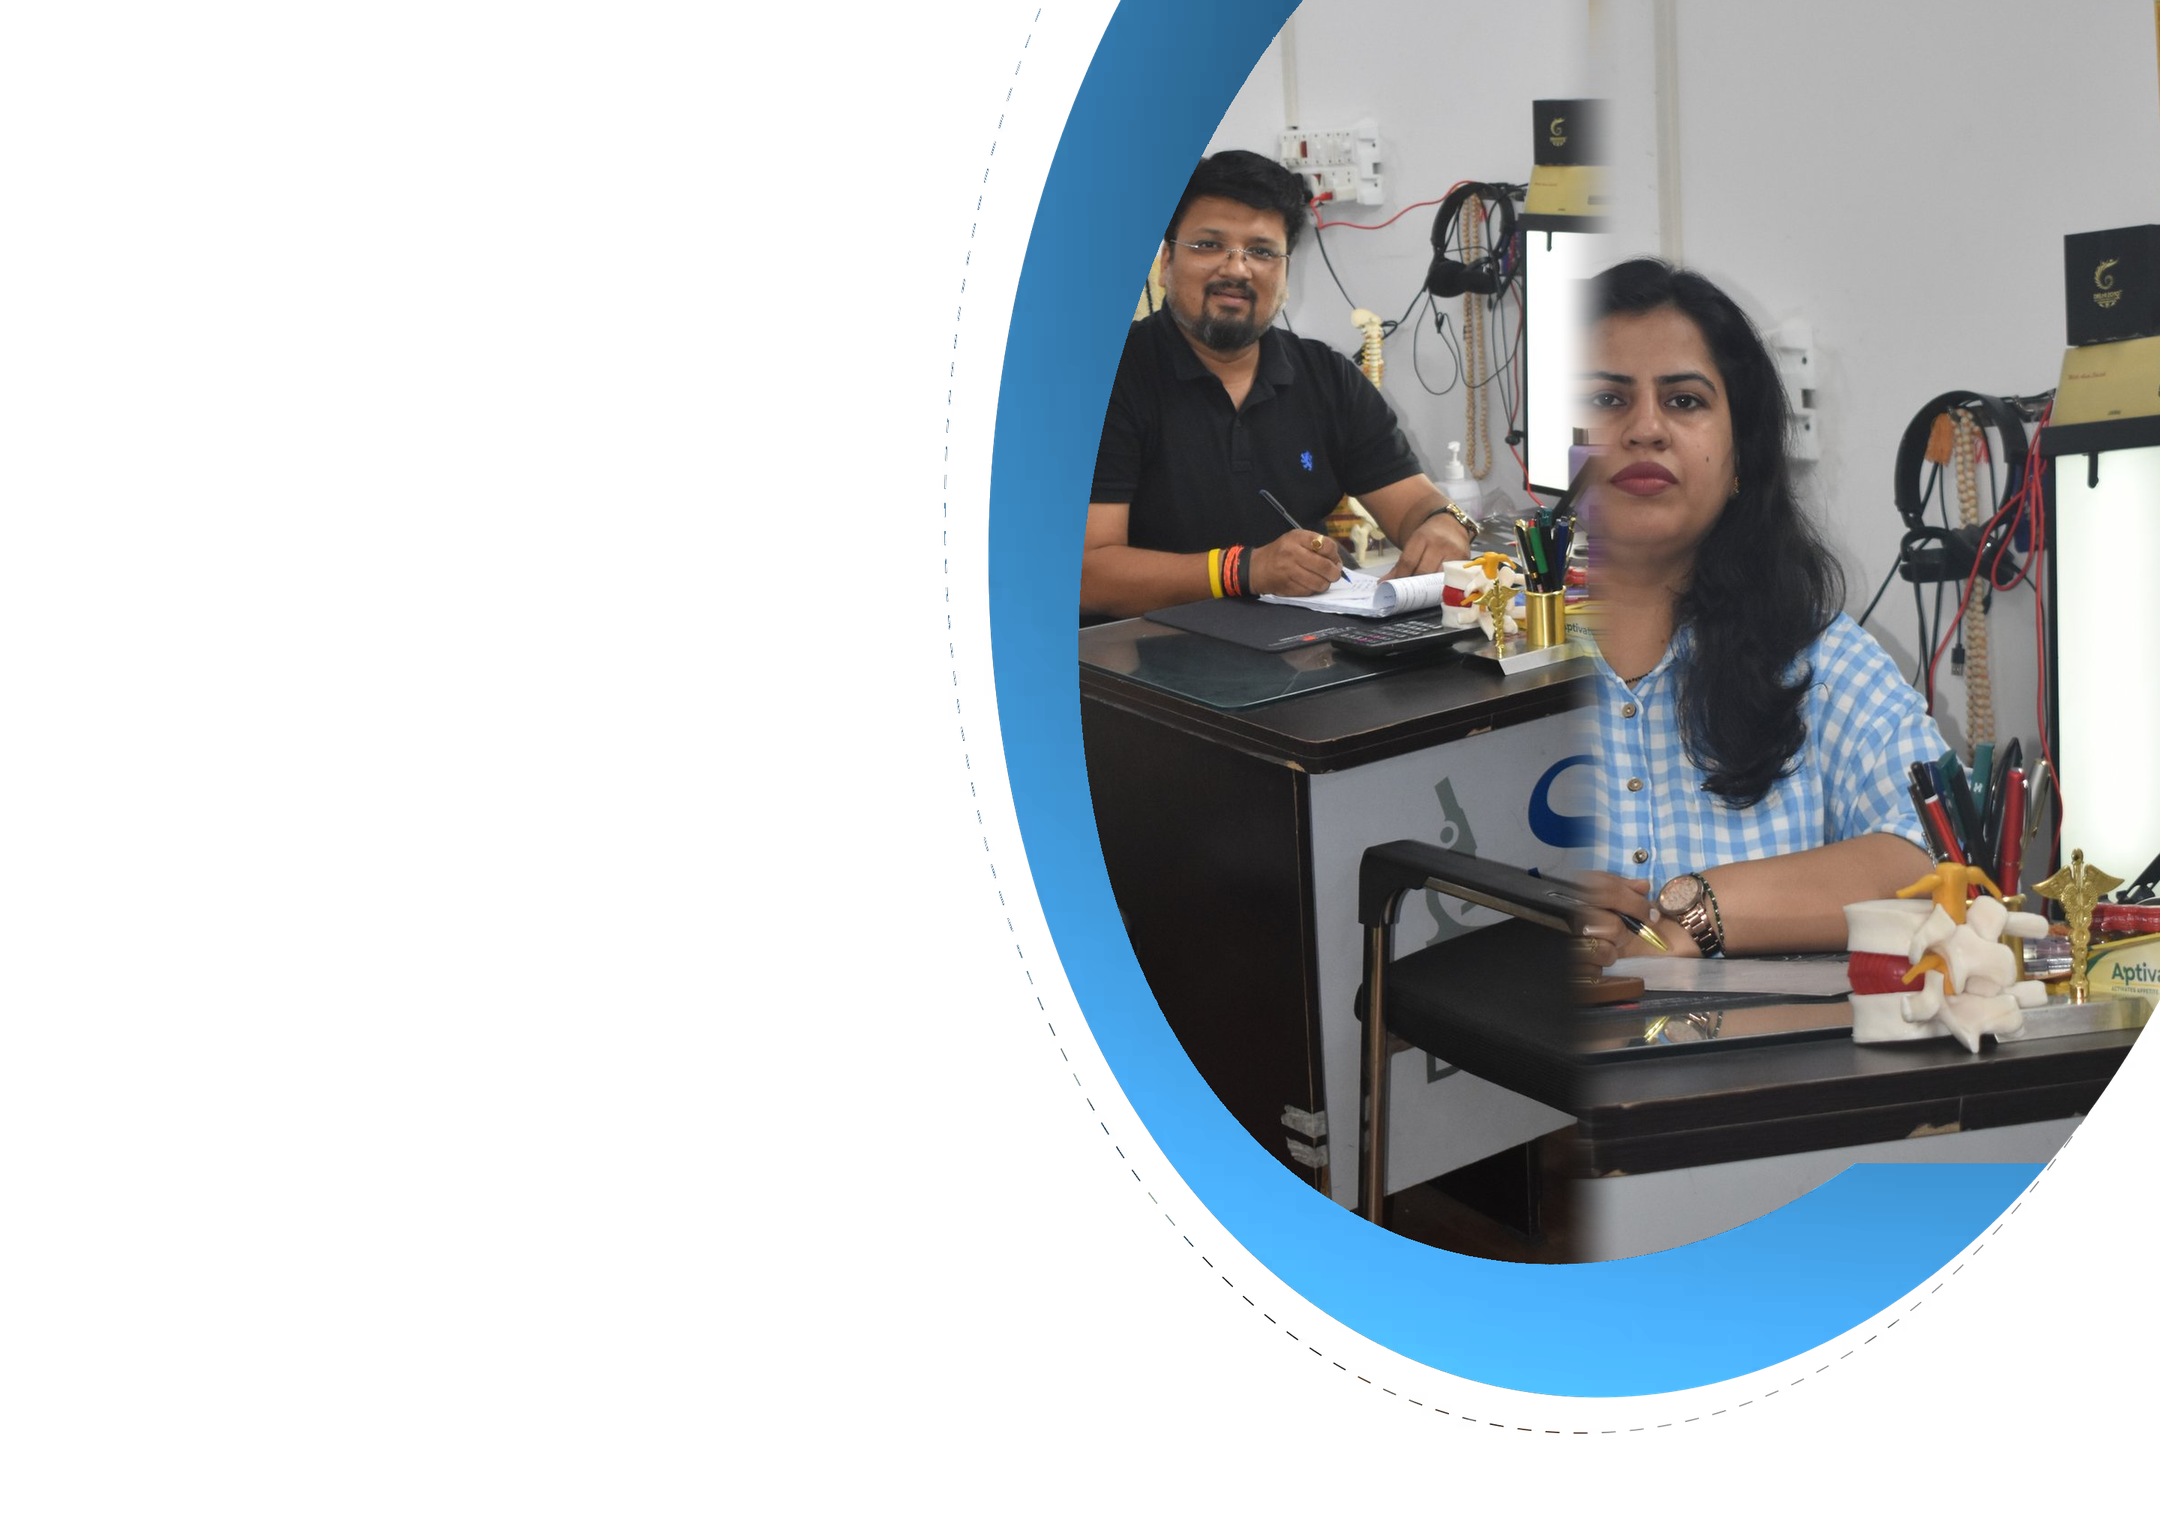
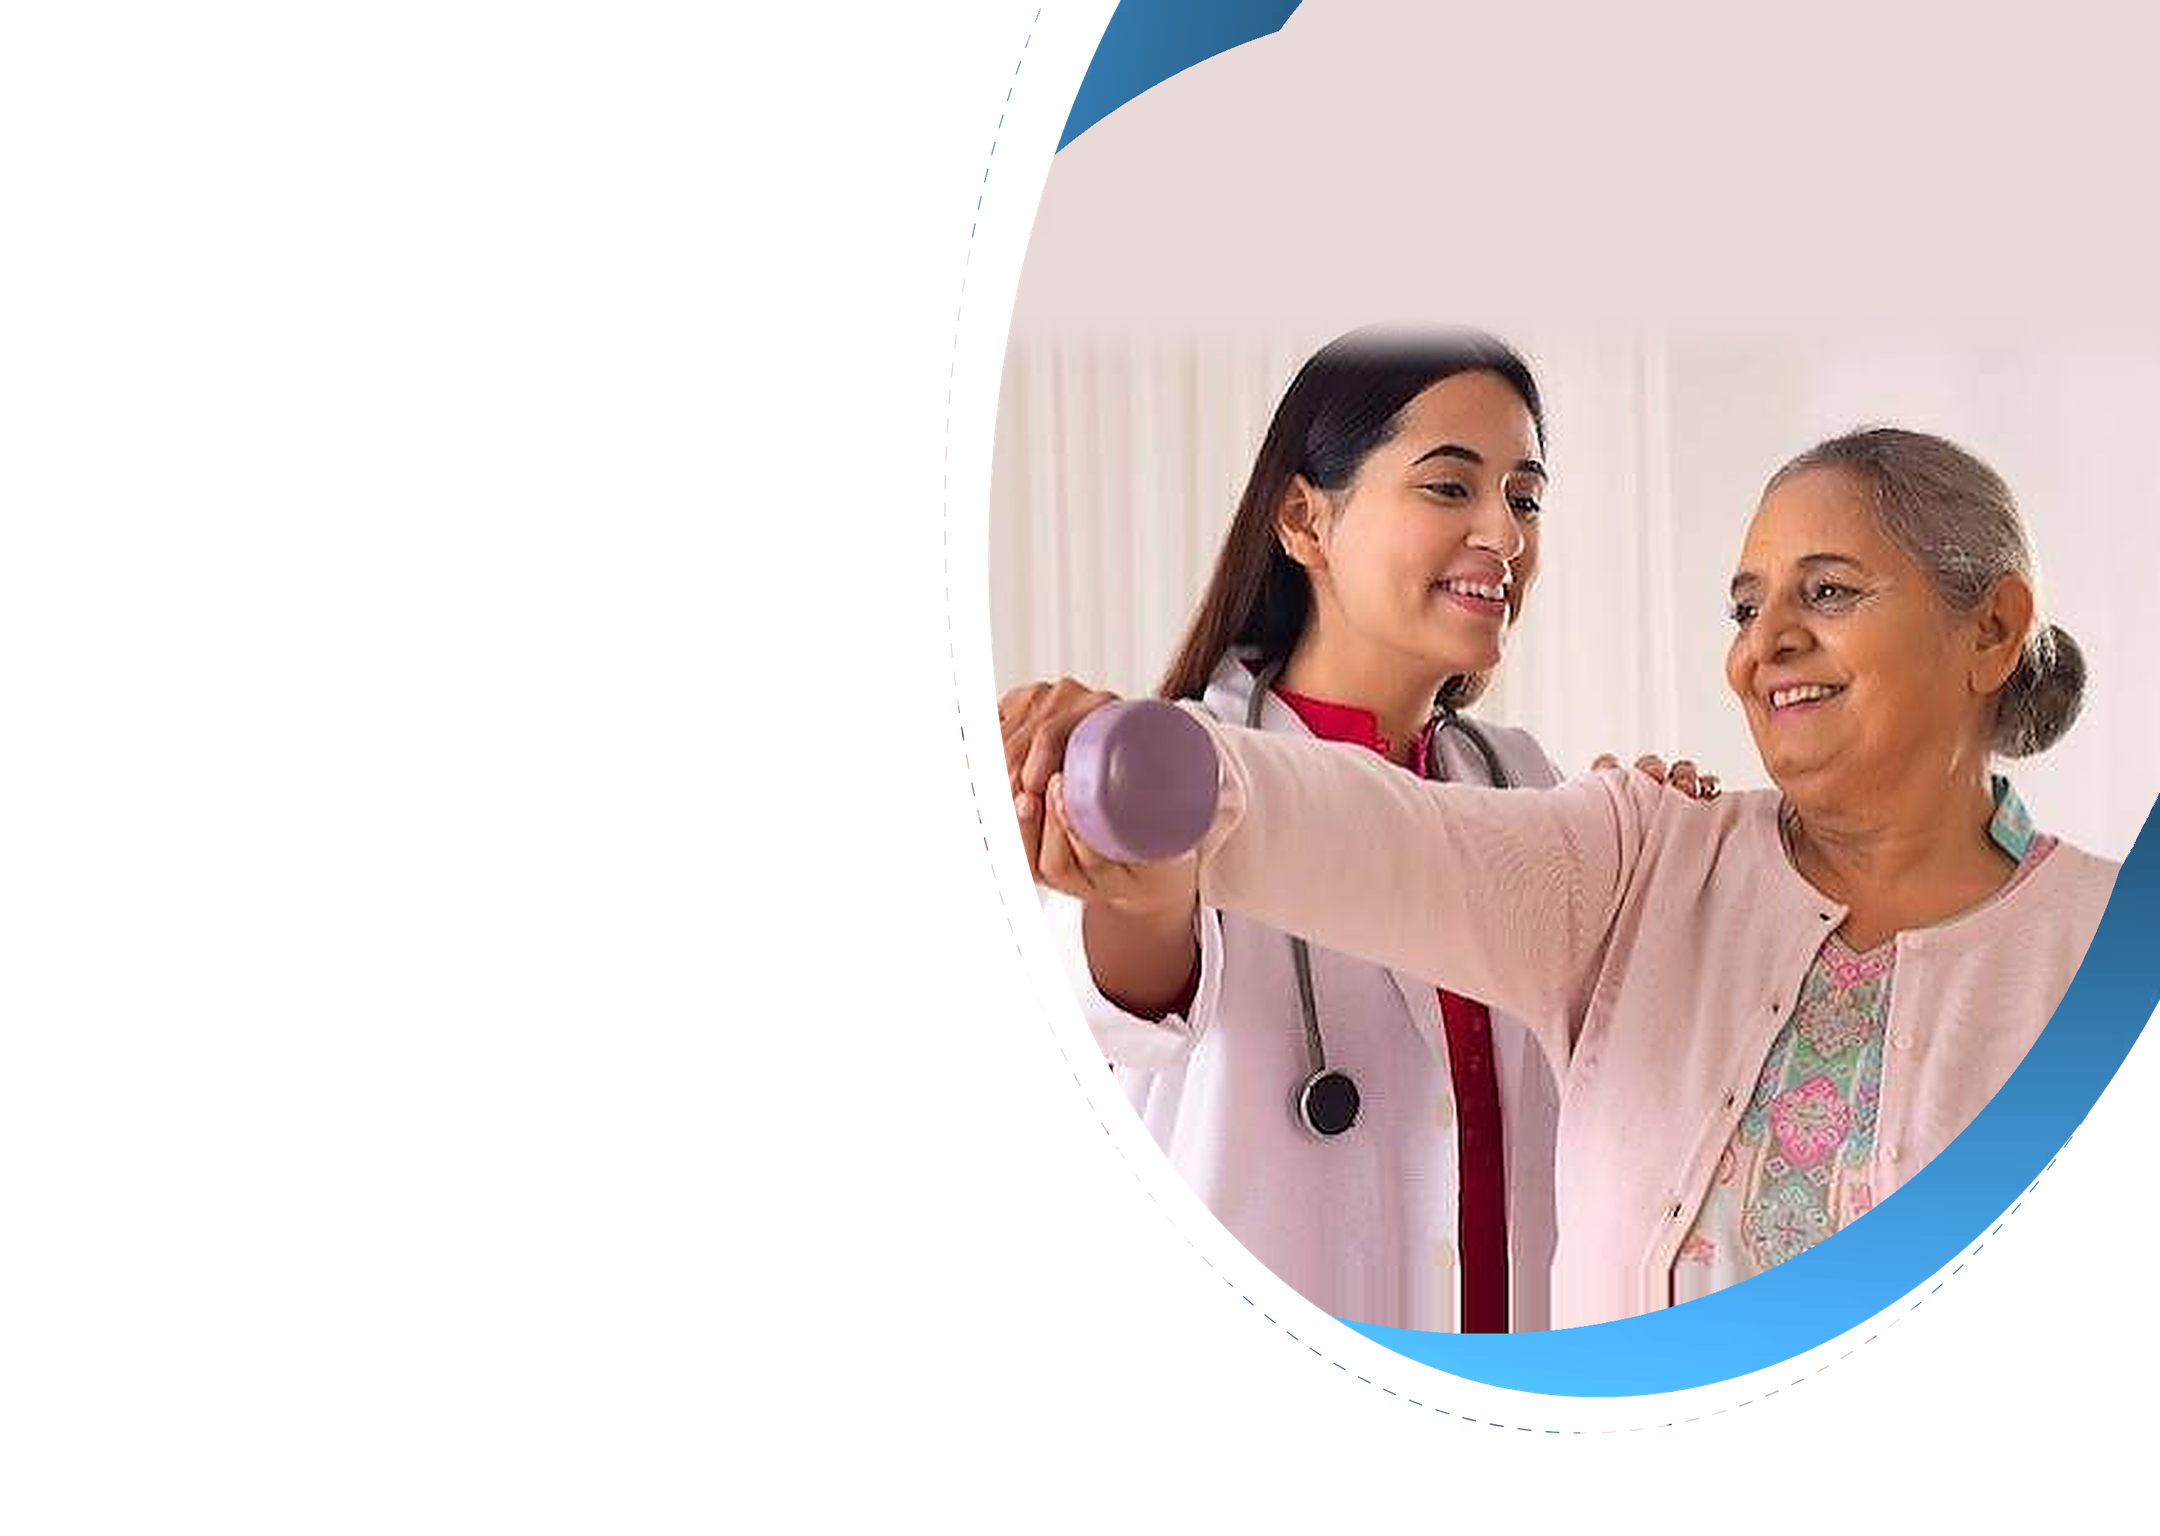
Integrate user-uploaded physiotherapy rehab action photo into hero crescent

diff --git a/index.html b/index.html
@@ -311,18 +311,18 @@
         <div class="pointer-events-auto absolute bottom-6 right-6 sm:right-10 bg-white/95 backdrop-blur-sm border-2 border-slate-200/90 rounded-2xl p-3 sm:p-4 shadow-[4px_4px_0px_#0e1d3e] text-left max-w-sm">
           <div class="flex items-center justify-between gap-2 flex-wrap mb-1">
             <span class="inline-block bg-[#0e1d3e] text-white text-[10px] font-black italic uppercase tracking-wider px-2 py-0.5 rounded">
-              SENIOR CLINICAL DIRECTORS
+              PERSONALIZED REHABILITATION
             </span>
             <span class="text-[10px] font-bold text-slate-500 flex items-center gap-1">
               <i data-lucide="shield-check" class="w-3.5 h-3.5 text-emerald-600"></i>
-              34+ Yrs Combined Experience
+              Senior Directed Care
             </span>
           </div>
           <h3 class="text-sm sm:text-base font-black italic uppercase text-slate-900 tracking-tight leading-tight">
-            Dr. Manish Gupta &amp; Dr. Vandana Choudhary
+            Advanced Neuro &amp; Ortho Physiotherapy
           </h3>
           <p class="text-[11px] font-bold text-slate-600 mt-0.5">
-            Dr. Manish: <span class="text-navy-900 font-black">MPT (Neurology)</span> • Dr. Vandana: <span class="text-navy-900 font-black">BPT, MPT (Ortho)</span>
+            Under Chief Supervision of <span class="text-navy-900 font-black">Dr. Manish Gupta &amp; Dr. Vandana Choudhary</span>
           </p>
         </div>
       </div>
@@ -448,9 +448,9 @@
 
         <!-- Mobile Doctor Credentials -->
         <div class="mt-3 bg-white p-3 rounded-xl border border-slate-200 shadow-sm text-left">
-          <span class="text-[9px] font-black italic uppercase bg-[#0e1d3e] text-white px-2 py-0.5 rounded">SENIOR CLINICAL DIRECTORS</span>
-          <h4 class="text-sm font-black italic uppercase text-slate-900 mt-1">Dr. Manish Gupta &amp; Dr. Vandana Choudhary</h4>
-          <p class="text-[10px] font-bold text-slate-600 mt-0.5">Dr. Manish: MPT (Neurology) • Dr. Vandana: BPT, MPT (Ortho)</p>
+          <span class="text-[9px] font-black italic uppercase bg-[#0e1d3e] text-white px-2 py-0.5 rounded">PERSONALIZED REHABILITATION</span>
+          <h4 class="text-sm font-black italic uppercase text-slate-900 mt-1">Advanced Neuro &amp; Ortho Physiotherapy</h4>
+          <p class="text-[10px] font-bold text-slate-600 mt-0.5">Under Chief Supervision of Dr. Manish Gupta &amp; Dr. Vandana Choudhary</p>
         </div>
       </div>
 

diff --git a/build_perfect_hero.py b/build_perfect_hero.py
@@ -1,0 +1,133 @@
+import cv2
+import numpy as np
+from PIL import Image, ImageFilter
+
+uploaded_path = r'C:/Users/dhruv/.gemini/antigravity/brain/d929d5e8-1ca6-4dcf-802e-1bdcbb6c73a2/.user_uploaded/media_1795535561983_b3001ff8.jpg'
+f39 = cv2.imread('public/images/frame39_raw.png', cv2.IMREAD_UNCHANGED)
+h, w = f39.shape[:2] # 2048, 2880
+alpha_f39 = f39[:, :, 3]
+y_coords, x_coords = np.ogrid[:h, :w]
+
+# 1. Isolate the TRUE crescent arc
+# In f39, the crescent arc is a circular ring with:
+# center cx ~ 1978, cy ~ 888
+# outer radius ~ 1010 px, inner radius ~ 900 px
+# Any red pixel that belongs to the crescent ring has:
+# dist_from_center between ~ 895 and ~ 1015 px!
+cx, cy = 1978, 888
+dist_from_center = np.sqrt((x_coords - cx)**2 + (y_coords - cy)**2)
+
+# Red pixels
+is_red = (f39[:, :, 2] > 80) & (f39[:, :, 1] < 65) & (f39[:, :, 0] < 65) & (alpha_f39 > 80)
+
+# True ring pixels: must be in the ring band (dist between 890 and 1025) OR on the crescent curve
+# AND must NOT be inside the inner photo region (dist < 890)
+true_ring_mask = is_red & (dist_from_center >= 890) & (dist_from_center <= 1030)
+
+# Also include the dashed orbit line (dist between 1030 and 1100, on the left side x < 1800)
+dashed_mask = (alpha_f39 > 0) & (alpha_f39 < 240) & (x_coords < 1700) & (dist_from_center >= 1010)
+
+# Recolor to Brand Blue (#367fb5)
+red_channel = f39[:, :, 2].astype(float)
+norm_lum = red_channel / 125.0
+
+blue_overlay = np.zeros((h, w, 4), dtype=np.uint8)
+
+# Ring:
+blue_overlay[true_ring_mask, 0] = np.clip(181.0 * norm_lum[true_ring_mask], 0, 255).astype(np.uint8) # B
+blue_overlay[true_ring_mask, 1] = np.clip(127.0 * norm_lum[true_ring_mask], 0, 255).astype(np.uint8) # G
+blue_overlay[true_ring_mask, 2] = np.clip(54.0 * norm_lum[true_ring_mask], 0, 255).astype(np.uint8)  # R
+blue_overlay[true_ring_mask, 3] = f39[true_ring_mask, 3]
+
+# Dashed line:
+blue_overlay[dashed_mask, 0] = 181
+blue_overlay[dashed_mask, 1] = 127
+blue_overlay[dashed_mask, 2] = 54
+blue_overlay[dashed_mask, 3] = f39[dashed_mask, 3]
+
+# 2. Prepare Photo Canvas
+# Load uploaded image and scale
+scale = 3.3
+target_w = int(690 * scale) # 2277
+target_h = int(387 * scale) # 1277
+
+pil_up = Image.open(uploaded_path).resize((target_w, target_h), Image.LANCZOS)
+pil_up = pil_up.filter(ImageFilter.UnsharpMask(radius=2, percent=125, threshold=2))
+scaled_bgr = cv2.cvtColor(np.array(pil_up), cv2.COLOR_RGB2BGR)
+
+# Position:
+x_offset = 790
+y_offset = 420
+
+canvas_photo = np.zeros((h, w, 3), dtype=np.uint8)
+
+# Sample neutral curtain color from top right of scaled photo
+curtain_color = scaled_bgr[5:40, int(target_w * 0.70):].mean(axis=(0, 1)).astype(np.uint8)
+canvas_photo[:, :] = curtain_color
+
+# Paste scaled photo with smooth vertical blending
+x_end_canvas = min(w, x_offset + target_w)
+crop_w_paste = x_end_canvas - x_offset
+
+canvas_photo[y_offset:y_offset+target_h, x_offset:x_end_canvas] = scaled_bgr[:, :crop_w_paste]
+
+# Smooth top blend across 80 pixels
+blend_top_h = 80
+for r in range(blend_top_h):
+    t = r / float(blend_top_h)
+    smooth_t = t * t * (3 - 2 * t)
+    # Blend canvas curtain with photo top
+    photo_row = scaled_bgr[r, :crop_w_paste].astype(float)
+    blended_row = curtain_color.astype(float) * (1.0 - smooth_t) + photo_row * smooth_t
+    canvas_photo[y_offset + r, x_offset:x_end_canvas] = blended_row.astype(np.uint8)
+
+# Extend bottom cardigan / lab coat downwards
+bottom_row = scaled_bgr[-1, :crop_w_paste]
+for y_down in range(y_offset + target_h, h):
+    canvas_photo[y_down, x_offset:x_end_canvas] = bottom_row
+
+# 3. Apply circular alpha mask
+full_canvas = np.zeros((h, w, 4), dtype=np.uint8)
+full_canvas[:, :, :3] = canvas_photo
+full_canvas[:, :, 3] = alpha_f39
+
+# 4. Composite blue ring & dashed orbit on top
+overlay_alpha = blue_overlay[:, :, 3].astype(float) / 255.0
+for c in range(3):
+    full_canvas[:, :, c] = np.clip(
+        full_canvas[:, :, c].astype(float) * (1.0 - overlay_alpha) +
+        blue_overlay[:, :, c].astype(float) * overlay_alpha,
+        0, 255
+    ).astype(np.uint8)
+
+full_canvas[:, :, 3] = np.maximum(full_canvas[:, :, 3], blue_overlay[:, :, 3])
+
+# Save master files
+cv2.imwrite('public/images/hero-crescent-final.png', full_canvas)
+
+pil_canvas = Image.fromarray(cv2.cvtColor(full_canvas, cv2.COLOR_BGRA2RGBA))
+
+# hero-crescent-bleed.png (2160x1536)
+bleed_im = pil_canvas.resize((2160, 1536), Image.LANCZOS)
+bleed_im.save('public/images/hero-crescent-bleed.png', optimize=True)
+
+# hero-crescent-web.png (tight crop for mobile)
+coords = np.argwhere(full_canvas[:, :, 3] > 0)
+y_min, x_min = coords.min(axis=0)
+y_max, x_max = coords.max(axis=0)
+crop_x1 = max(0, x_min - 20)
+crop_x2 = min(w, x_max + 1)
+crop_y1 = max(0, y_min - 10)
+crop_y2 = min(h, y_max + 1)
+cropped = pil_canvas.crop((crop_x1, crop_y1, crop_x2, crop_y2))
+cropped_web = cropped.resize((1400, int(cropped.height * (1400.0 / cropped.width))), Image.LANCZOS)
+cropped_web.save('public/images/hero-crescent-web.png', optimize=True)
+
+# Preview
+bg = np.full((h, w, 3), (248, 248, 250), dtype=np.uint8)
+comp_alpha = full_canvas[:, :, 3].astype(float) / 255.0
+for c in range(3):
+    bg[:, :, c] = np.clip(full_canvas[:, :, c].astype(float) * comp_alpha + bg[:, :, c].astype(float) * (1.0 - comp_alpha), 0, 255).astype(np.uint8)
+
+cv2.imwrite(r'C:\Users\dhruv\.gemini\antigravity\brain\d929d5e8-1ca6-4dcf-802e-1bdcbb6c73a2\hero_perfect_preview.jpg', cv2.resize(bg, (960, 683)))
+print('Saved hero_perfect_preview.jpg and master images successfully.')
